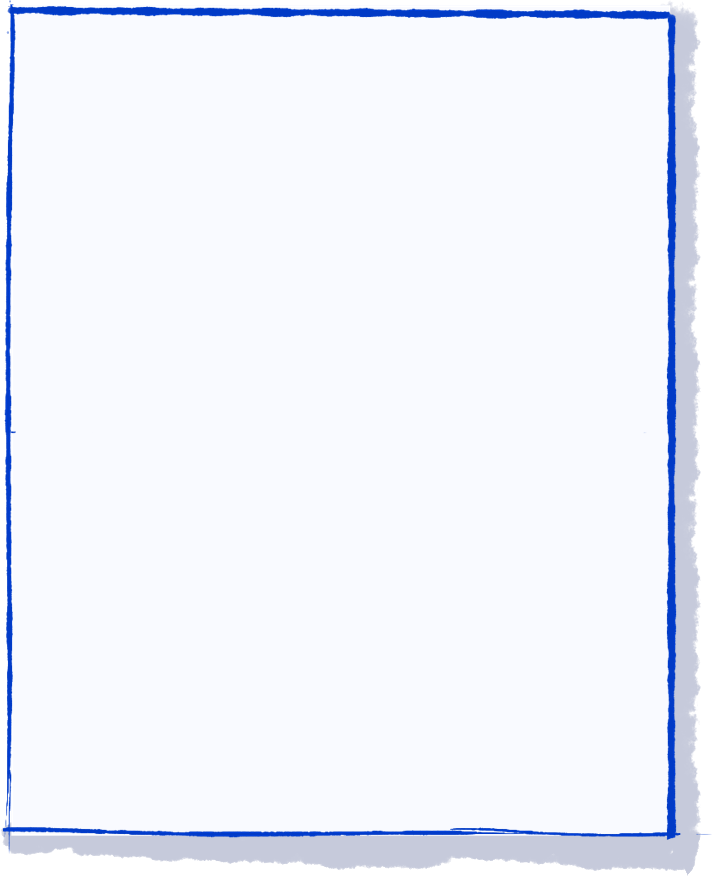
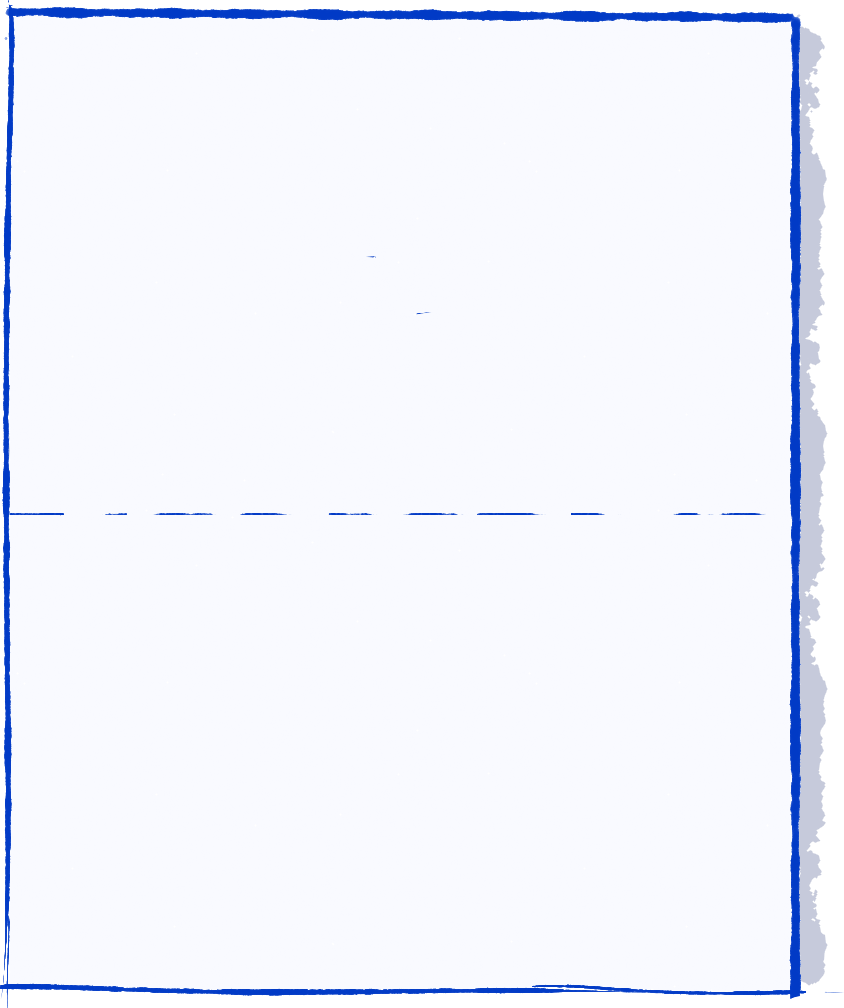
:art: editing layout

diff --git a/src/pages/Done/index.jsx b/src/pages/Done/index.jsx
@@ -1,5 +1,6 @@
-import React, { Fragment ,useState } from 'react'
-import check from './images/check.png'
+import React, { Fragment ,useState, useEffect } from 'react'
+import checkOthers from './images/checkOthers.png'
+import { get } from "../../http";
 import './style.css'
 
 function Done() {
@@ -8,12 +9,24 @@ function Done() {
   const imgId = params.get("imgId")
 
   const [status, setStatus] = useState(0)
+  const [imgList, setImgList] = useState([])
+
+  useEffect(() => {
+    get('/api/picture', {
+      id: imgId
+    }).then(res => {
+      console.log(res)
+      setImgList([res.data.top_file_name, res.data.bottom_file_name])
+    }).catch(err => {
+      throw new Error(err)
+    })
+  }, [])
 
   if (status === 0) {
     console.log('params', imgId)
     return (
       <div className='done'>
-        <img className='check' src={check} alt="check" onClick={() => {setStatus(1)}}/>
+        <img className='check' src={checkOthers} alt="check" onClick={() => {setStatus(1)}}/>
       </div>
     )
   }
@@ -23,7 +36,10 @@ function Done() {
       <Fragment>
         <div className='title'>xxx和xxx的惊世之作</div>
         <div className='sub-title'>诞生了</div>
-        <div className="outline"></div>
+        <div className="outline">
+          <img src={`https://draw2019.oss-cn-shanghai.aliyuncs.com/picture/${imgList[0]}?x-oss-process=image/resize,m_fill,h_176,w_274,limit_0`} alt=""/>
+          <img src={`https://draw2019.oss-cn-shanghai.aliyuncs.com/picture/${imgList[1]}?x-oss-process=image/resize,m_fill,h_168,w_274,limit_0`} alt=""/>
+        </div>
       </Fragment>
     )
   }

diff --git a/src/pages/Done/style.css b/src/pages/Done/style.css
@@ -24,8 +24,10 @@
 }
 
 .outline {
-  width: 8rem;
-  height: 9.6rem;
+  box-sizing: border-box;
+  height: 360px;
+  width: 300px;
   background: url("./images/outline.png") no-repeat;
   background-size: contain;
+  padding: 6px 0 0 6px;
 }
